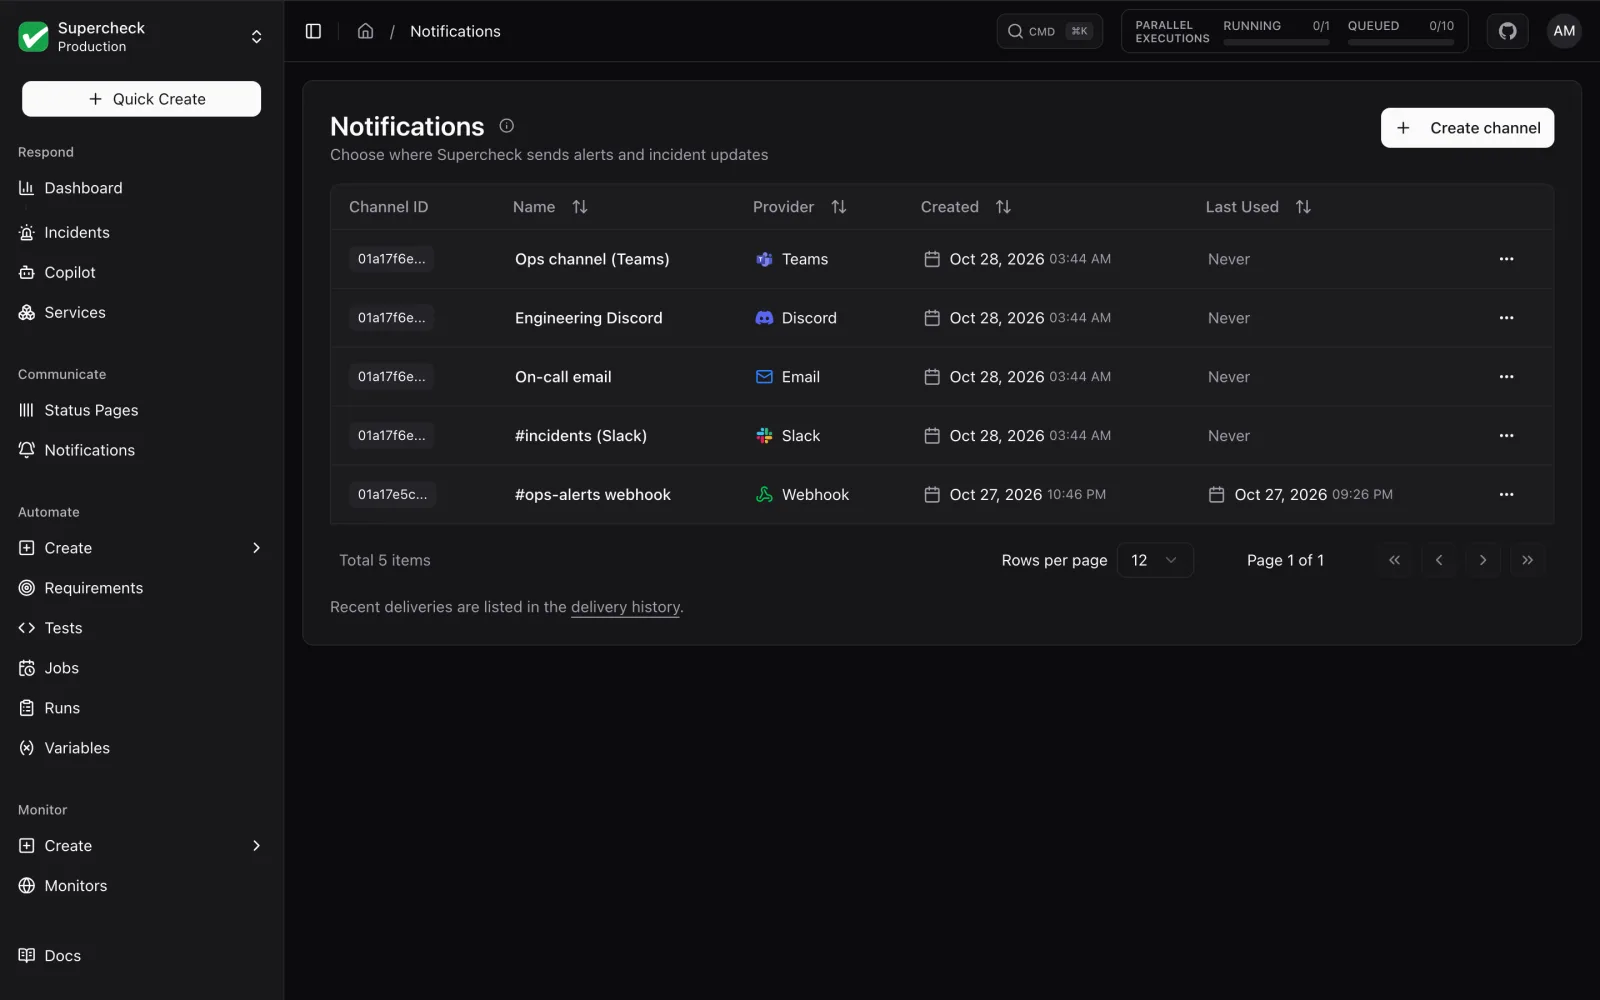
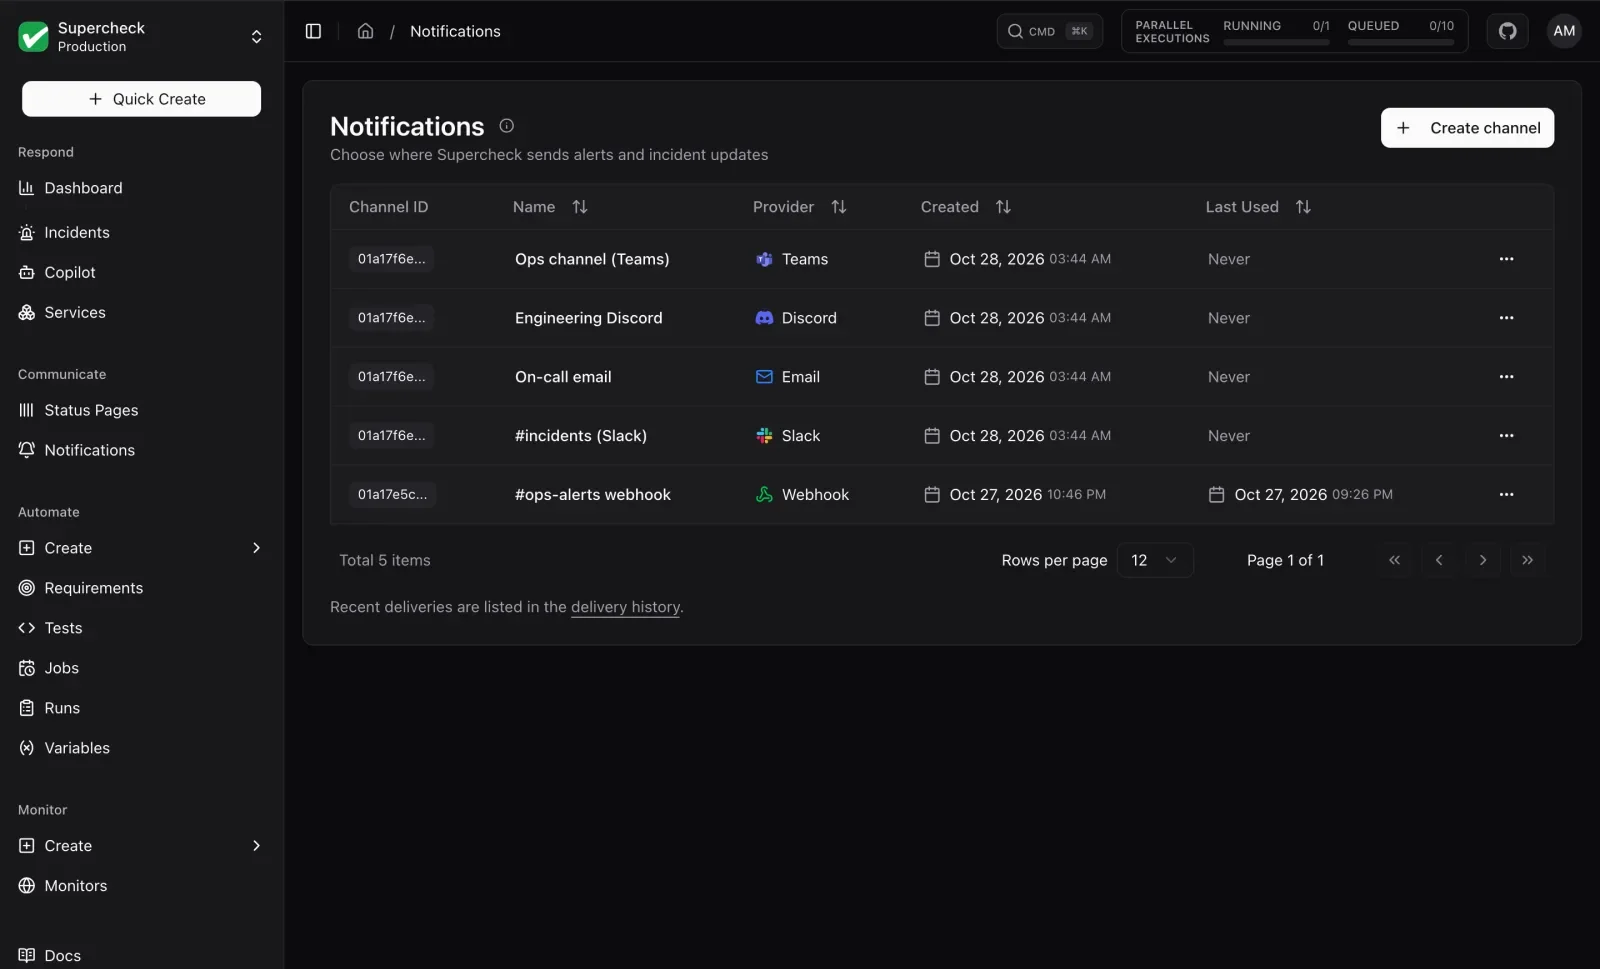
fix(site): show full landing screenshots at one size (#872)
* fix(site): show full landing screenshots at one size

Drop the CSS crop frame so every feature screenshot shows the whole capture,
and trim the three 1600x1000 site captures to 1600x969 so all frames match.

* fix(site): darken light-mode area colours to meet WCAG AA contrast

diff --git a/docs/src/app/(home)/page.tsx b/docs/src/app/(home)/page.tsx
@@ -4,7 +4,7 @@ import { ArrowRight, BellRing, CircleCheck, Code, Globe, Radio, Siren, Sparkles 
 import { SiteHeader } from "../../components/site-header";
 import { CodeWindow } from "../../components/landing/code-window";
 import { CopyCommand, HeroVideo } from "../../components/landing/interactive";
-import { CheckList, IconChip, Screenshot, SectionHeading, SolutionCards, primaryButton, secondaryButton, textLink, type Area, type ShotFocus } from "../../components/landing/ui";
+import { CheckList, IconChip, Screenshot, SectionHeading, SolutionCards, primaryButton, secondaryButton, textLink, type Area } from "../../components/landing/ui";
 import { SiteFooter } from "../../components/site-footer";
 import { toolGroups } from "../../components/landing/tool-logos";
 import { DEMO_URL } from "../../lib/site-nav";
@@ -18,7 +18,7 @@ const products = [
     icon: Code,
     summary: "Write, record and run end-to-end and load tests.",
     href: "/docs/app/automate",
-    shot: { src: "/screenshots/site/playground-editor.webp", alt: "Playground editor with a Playwright checkout test", focus: { x: 0.16, y: 0.055, w: 0.84, h: 0.62 } satisfies ShotFocus },
+    shot: { src: "/screenshots/site/playground-editor.webp", alt: "Playground editor with a Playwright checkout test" },
     items: [
       "Playwright browser, API and database tests",
       "k6 load tests with streaming logs and run comparison",
@@ -33,7 +33,7 @@ const products = [
     icon: Globe,
     summary: "Know when something breaks before your users tell you.",
     href: "/docs/app/monitor",
-    shot: { src: "/screenshots/site/monitors-list.webp", alt: "Monitors list with HTTP, website, ping, port and synthetic monitors", focus: { x: 0.165, y: 0.06, w: 0.835, h: 0.62 } satisfies ShotFocus },
+    shot: { src: "/screenshots/site/monitors-list.webp", alt: "Monitors list with HTTP, website, ping, port and synthetic monitors" },
     items: [
       "HTTP, website, ping and port checks",
       "Uptime checks from several regions, including Europe, North America and Asia Pacific on Cloud",
@@ -47,7 +47,7 @@ const products = [
     icon: Siren,
     summary: "Monitor and job alerts open an incident you can work from (on by default, per check).",
     href: "/docs/app/investigate",
-    shot: { src: "/screenshots/site/incident-workspace-overview.webp", alt: "Incident workspace for a Checkout API outage with an AI summary", focus: { x: 0.2, y: 0.07, w: 0.8, h: 0.7 } satisfies ShotFocus },
+    shot: { src: "/screenshots/site/incident-workspace-overview.webp", alt: "Incident workspace for a Checkout API outage with an AI summary" },
     items: [
       "One incident per failing source, resolved on recovery unless someone has acknowledged it",
       "AI SRE investigations that cite their evidence",
@@ -62,7 +62,7 @@ const products = [
     icon: Radio,
     summary: "Tell your team first, then tell your users.",
     href: "/docs/app/communicate",
-    shot: { src: "/screenshots/site/status-page-public.webp", alt: "Public status page with a partial outage banner and 90 days of uptime per component", focus: { x: 0.2, y: 0.03, w: 0.6, h: 0.72 } satisfies ShotFocus },
+    shot: { src: "/screenshots/site/status-page-public.webp", alt: "Public status page with a partial outage banner and 90 days of uptime per component" },
     items: [
       "Notifications by email, Slack, Teams, Discord, Telegram and webhooks",
       "Public status pages on your own domain",
@@ -243,7 +243,7 @@ export default async function HomePage() {
                     </Link>
                   </div>
                   <div className={index % 2 === 1 ? "lg:order-1" : undefined}>
-                    <Screenshot src={product.shot.src} alt={product.shot.alt} focus={product.shot.focus} />
+                    <Screenshot src={product.shot.src} alt={product.shot.alt} />
                   </div>
                 </div>
               ))}

diff --git a/docs/src/components/landing/ui.tsx b/docs/src/components/landing/ui.tsx
@@ -65,55 +65,17 @@ export function CheckList({ items, area, className = "" }: { items: string[]; ar
   );
 }
 
-// Intrinsic sizes of the 1600px WebP copies in public/screenshots/site.
-const SHOT_HEIGHTS: Record<string, number> = {
-  "incident-workspace-overview": 1000,
-  "sre-copilot-chat": 1000,
-  "notification-channels": 1000,
-};
-
-/** Region of a screenshot to show, as fractions of the full image (0 to 1). */
-export type ShotFocus = { x: number; y: number; w: number; h: number };
-
-/**
- * Product screenshot in a framed panel. Screenshots are dark-theme captures in both site themes.
- * `focus` crops to the panel that matters with CSS, so the source image can be regenerated as is.
- */
-export function Screenshot({ src, alt, priority = false, focus }: { src: string; alt: string; priority?: boolean; focus?: ShotFocus }) {
-  const name = src.split("/").pop()?.replace(/\.webp$/, "") ?? "";
-  const height = SHOT_HEIGHTS[name] ?? 969;
-  const frame =
-    "overflow-hidden rounded-xl border border-fd-border bg-[#0a0a0a] shadow-[0_1px_2px_rgb(0_0_0/0.04),0_24px_48px_-24px_rgb(0_0_0/0.3)]";
-  if (!focus) {
-    return (
-      <div className={frame}>
-        <Image
-          src={versioned(src)}
-          alt={alt}
-          width={1600}
-          height={height}
-          sizes="(min-width: 1024px) 640px, 100vw"
-          className="h-auto w-full"
-          priority={priority}
-        />
-      </div>
-    );
-  }
+/** Product screenshot in a framed panel. Every site screenshot is a full 1600x969 dark-theme capture, so all frames match. */
+export function Screenshot({ src, alt, priority = false }: { src: string; alt: string; priority?: boolean }) {
   return (
-    <div className={`relative ${frame}`} style={{ aspectRatio: `${1600 * focus.w} / ${height * focus.h}` }}>
+    <div className="overflow-hidden rounded-xl border border-fd-border bg-[#0a0a0a] shadow-[0_1px_2px_rgb(0_0_0/0.04),0_24px_48px_-24px_rgb(0_0_0/0.3)]">
       <Image
         src={versioned(src)}
         alt={alt}
         width={1600}
-        height={height}
-        sizes="(min-width: 1024px) 900px, 130vw"
-        className="absolute max-w-none"
-        style={{
-          width: `${100 / focus.w}%`,
-          height: "auto",
-          left: `${(-focus.x / focus.w) * 100}%`,
-          top: `${(-focus.y / focus.h) * 100}%`,
-        }}
+        height={969}
+        sizes="(min-width: 1024px) 640px, 100vw"
+        className="h-auto w-full"
         priority={priority}
       />
     </div>

diff --git a/docs/src/app/global.css b/docs/src/app/global.css
@@ -6,11 +6,11 @@
 :root {
   /* Blue stays the link and focus colour; primary buttons are black (see DESIGN.md). */
   --color-fd-primary: hsl(220, 90%, 56%);
-  /* Product areas, same values as app/src/app/globals.css. Chips, eyebrows and icons only. */
-  --automate: oklch(0.588 0.158 241.966);
-  --monitor: oklch(0.6 0.118 184.704);
-  --respond: oklch(0.646 0.222 41.116);
-  --communicate: oklch(0.592 0.249 0.584);
+  /* Product areas, same values as app/src/app/globals.css (700 shades, WCAG AA on cards). Chips, eyebrows and icons only. */
+  --automate: oklch(0.5 0.134 242.749);
+  --monitor: oklch(0.511 0.096 186.391);
+  --respond: oklch(0.553 0.195 38.402);
+  --communicate: oklch(0.525 0.223 3.958);
   --ai: oklch(0.541 0.281 293.009);
 }
 
